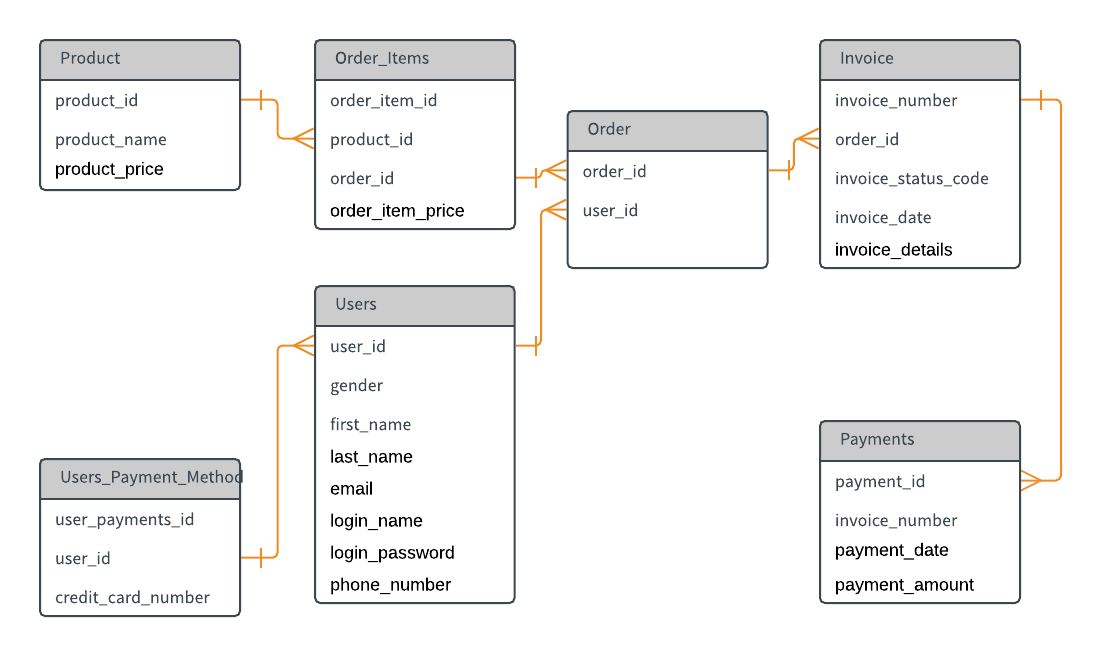
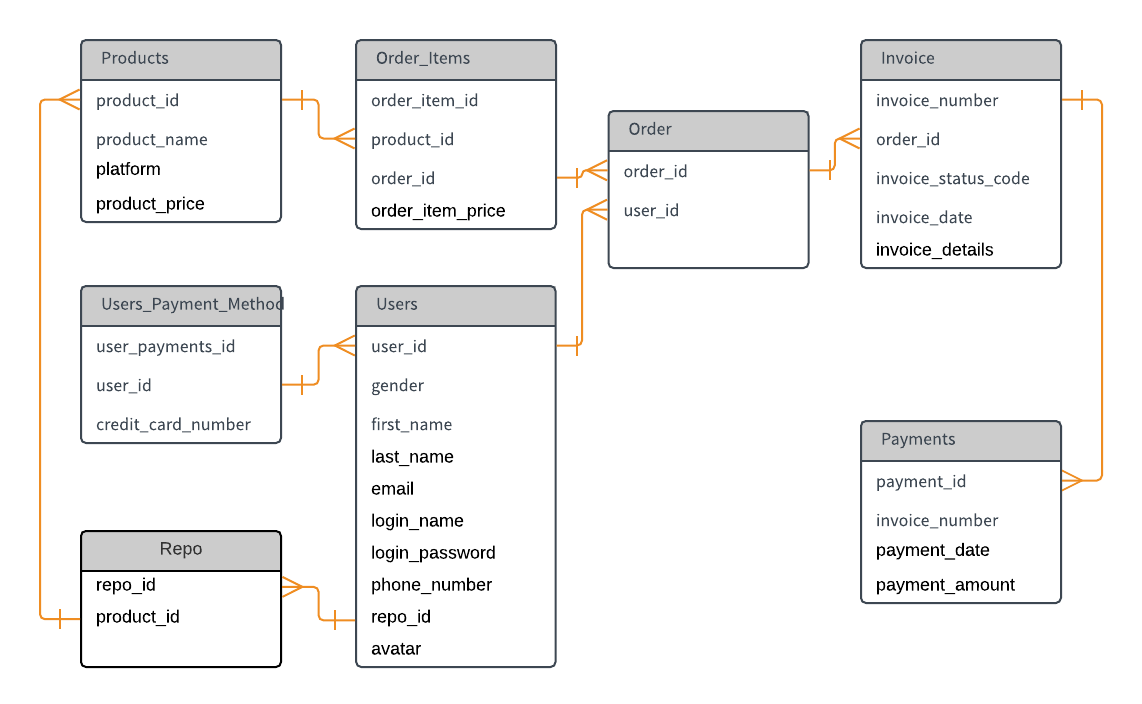
Update README.md and wireframe png

diff --git a/README.md b/README.md
@@ -14,26 +14,51 @@
 
 <h3>Database Schema:</h3>
 
-<h4>User Table</h4>
+<h4>User Payment Methods Table</h4>
 
-ID | FirstName | LastName | UserName | Email | Avatar
---- | --- | --- | --- | --- | ---
-1  | John | Doe | Jdoe | jdoe@mail.com |
-
-<h4>Account Table</h4>
-
-ID | Name | Repo_id
+user_payment_id | user_id | credit_card_number
 --- | --- | ---
-1 | jdoe | 1
+  13  | 007 | 1234-5678-9876-5432   
+
+<h4>Users Table</h4>
+
+user_id | gender | first_name | last_name | email | login_name | login_password | phone_number | repo_id | avatar
+--- | --- | --- | --- | --- | --- | --- | --- | --- | ---
+007  | Male | John | Doe | jdoe@mail.com | J-dizzle | SuperSecret | 888-666-6666 | 11 |      
 
 <h4>Repo Table</h4>
 
-ID | Script_id
+repo_id | product_id
 --- | ---
-1 | 1
+11 | 1
 
-<h4>Script Table</h4>
+<h4>Products Table</h4>
 
-ID | Name | Data_url | Platform | Price
+product_id | product_name | platform | product_price
+--- | --- | --- | ---
+1 | auto_sploit | Python | 800
+
+
+<h4>Order Items Table</h4>
+
+order_item_id | product_id | order_id | order_item_price
+--- | --- | --- | ---
+4 | 1 | 49-235 | 800
+
+<h4>Orders Table</h4>
+
+order_id | user_id
+--- | ---
+49-235 | 007
+
+<h4>Invoices Table</h4>
+
+invoice_number | order_id | invoice_status_code | invoice_date | invoice_details
 --- | --- | --- | --- | ---
-1 | auto_sploit | http://google.com | Python | 800   
+9823-5634-1209 | 49-235 | Pending | 2018-05-25 | "1 Item: auto_sploit"
+
+<h4>Payments Table</h4>
+
+payment_id | invoice_number | payment_date | payment_amount
+--- | --- | --- | ---
+2934-3856-6543 | 9823-5634-1209 | 1028-05-25 | 800
